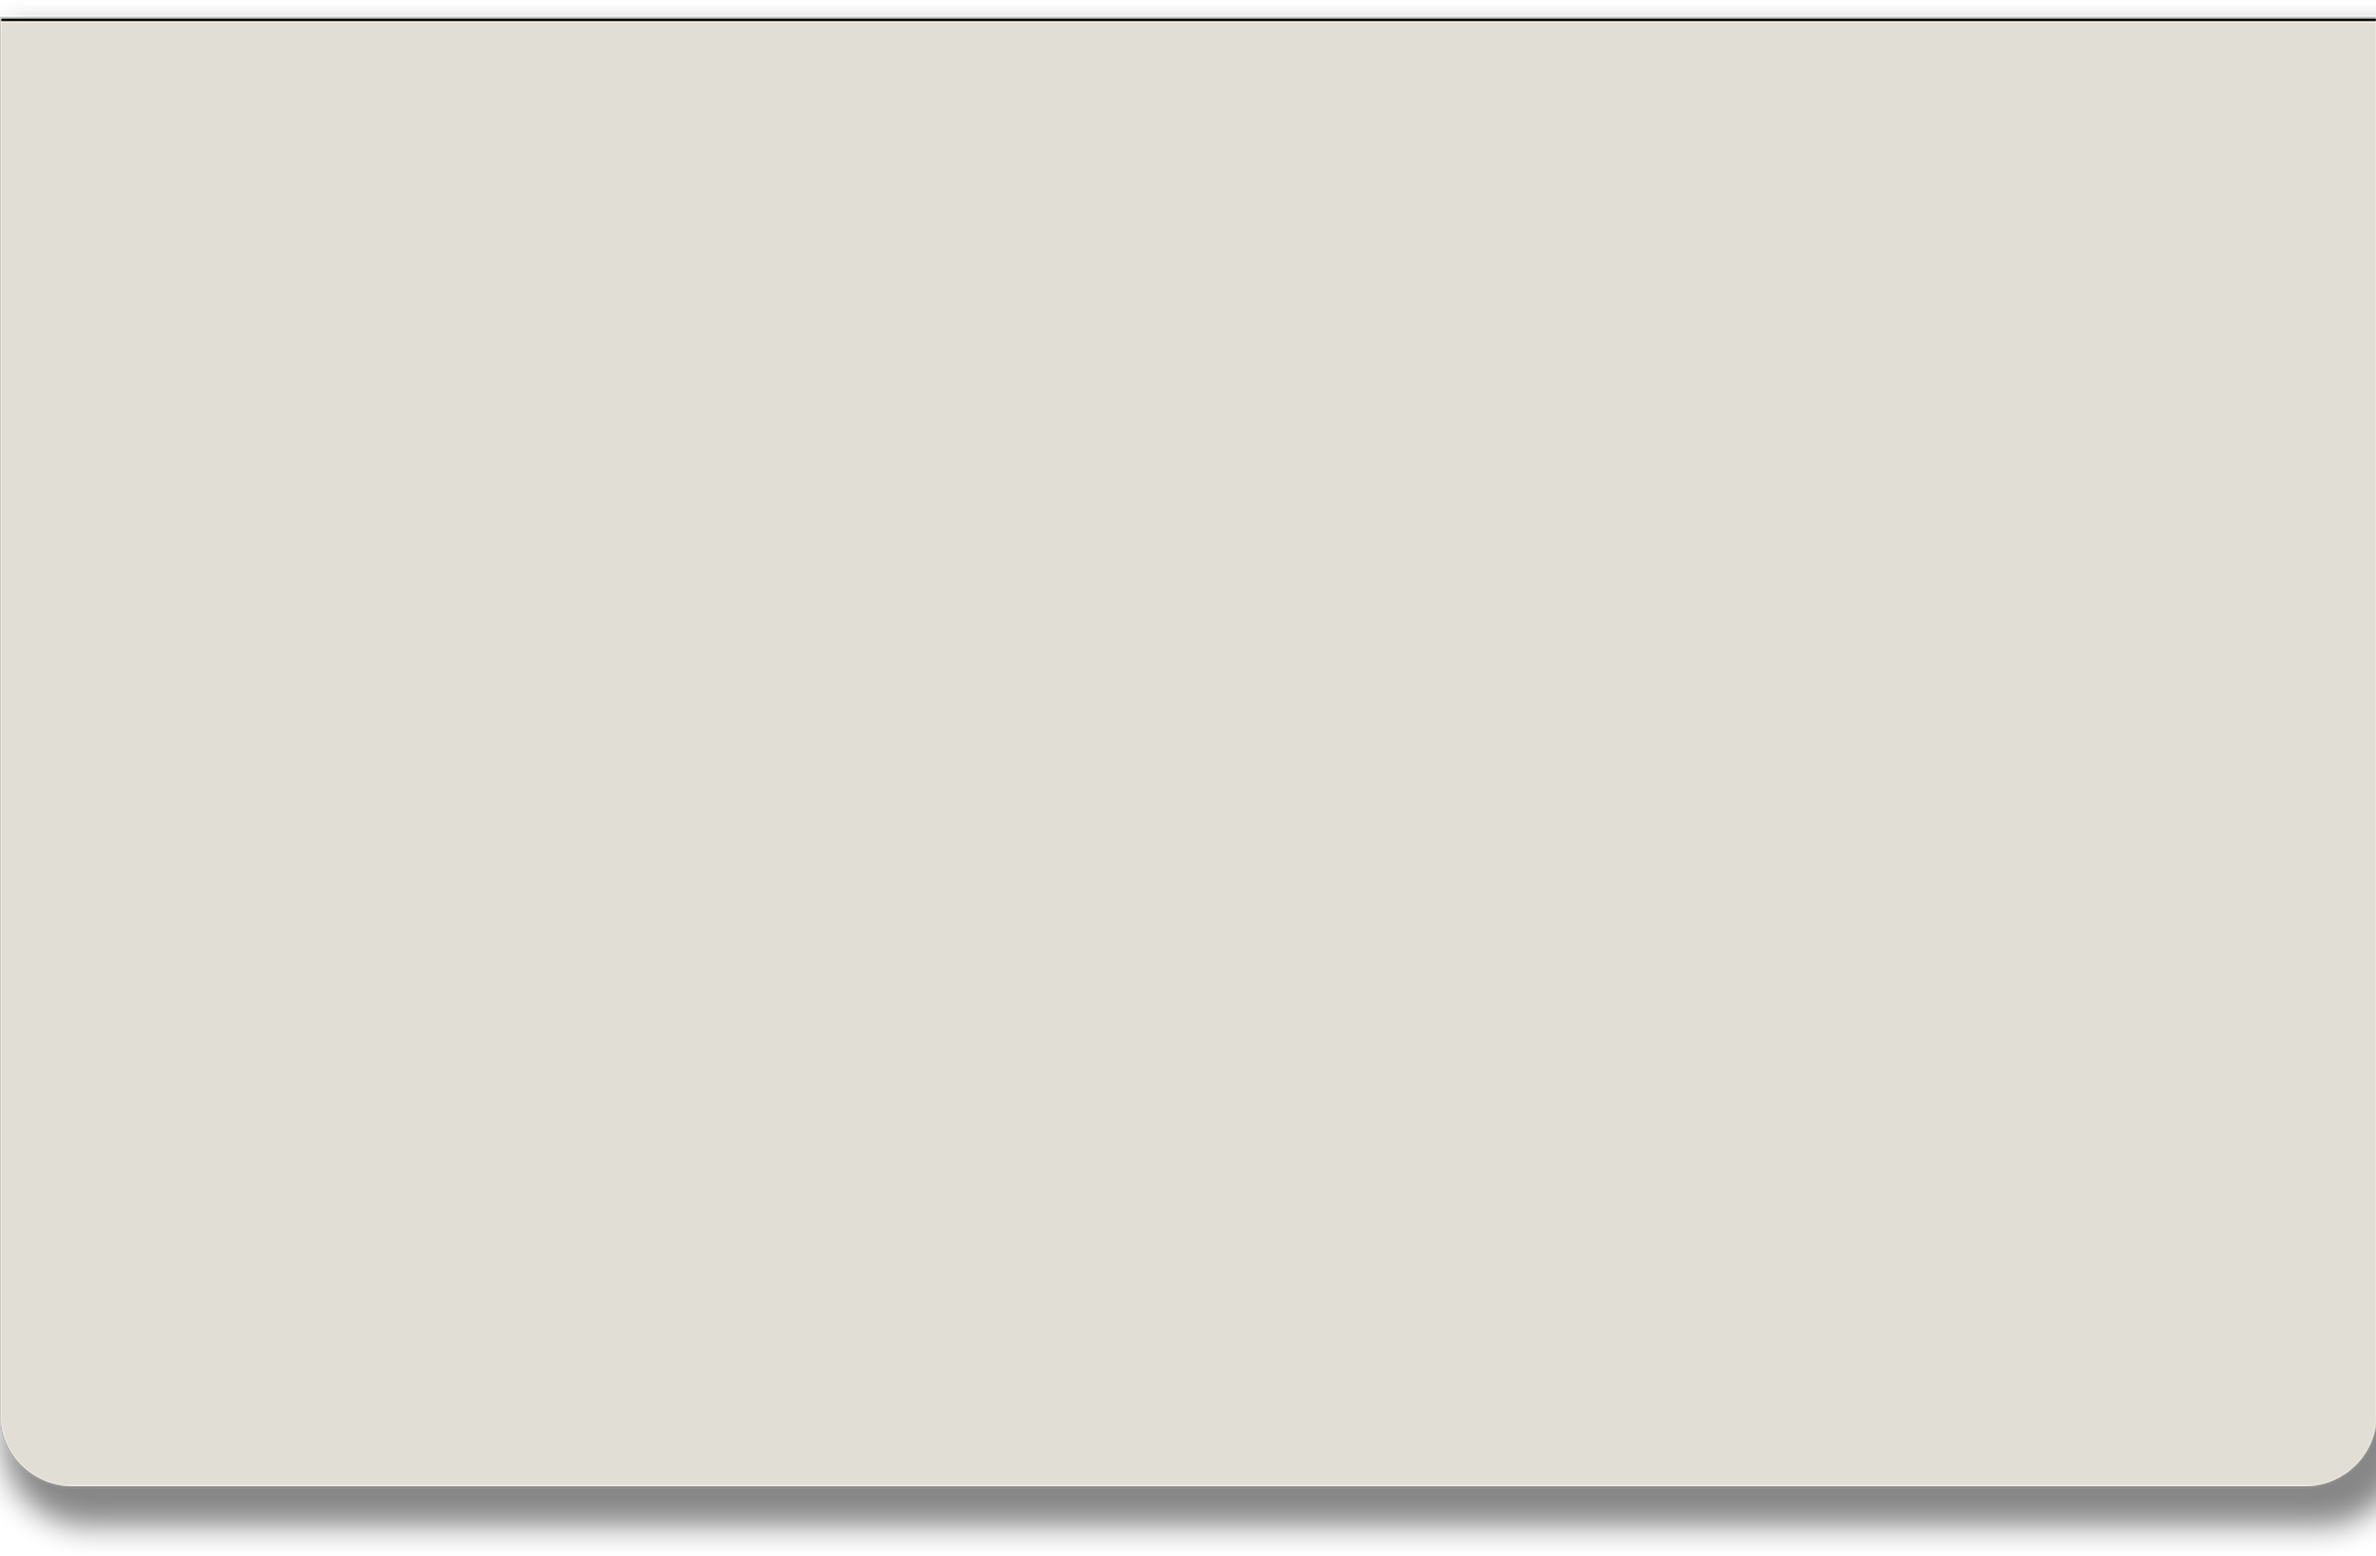
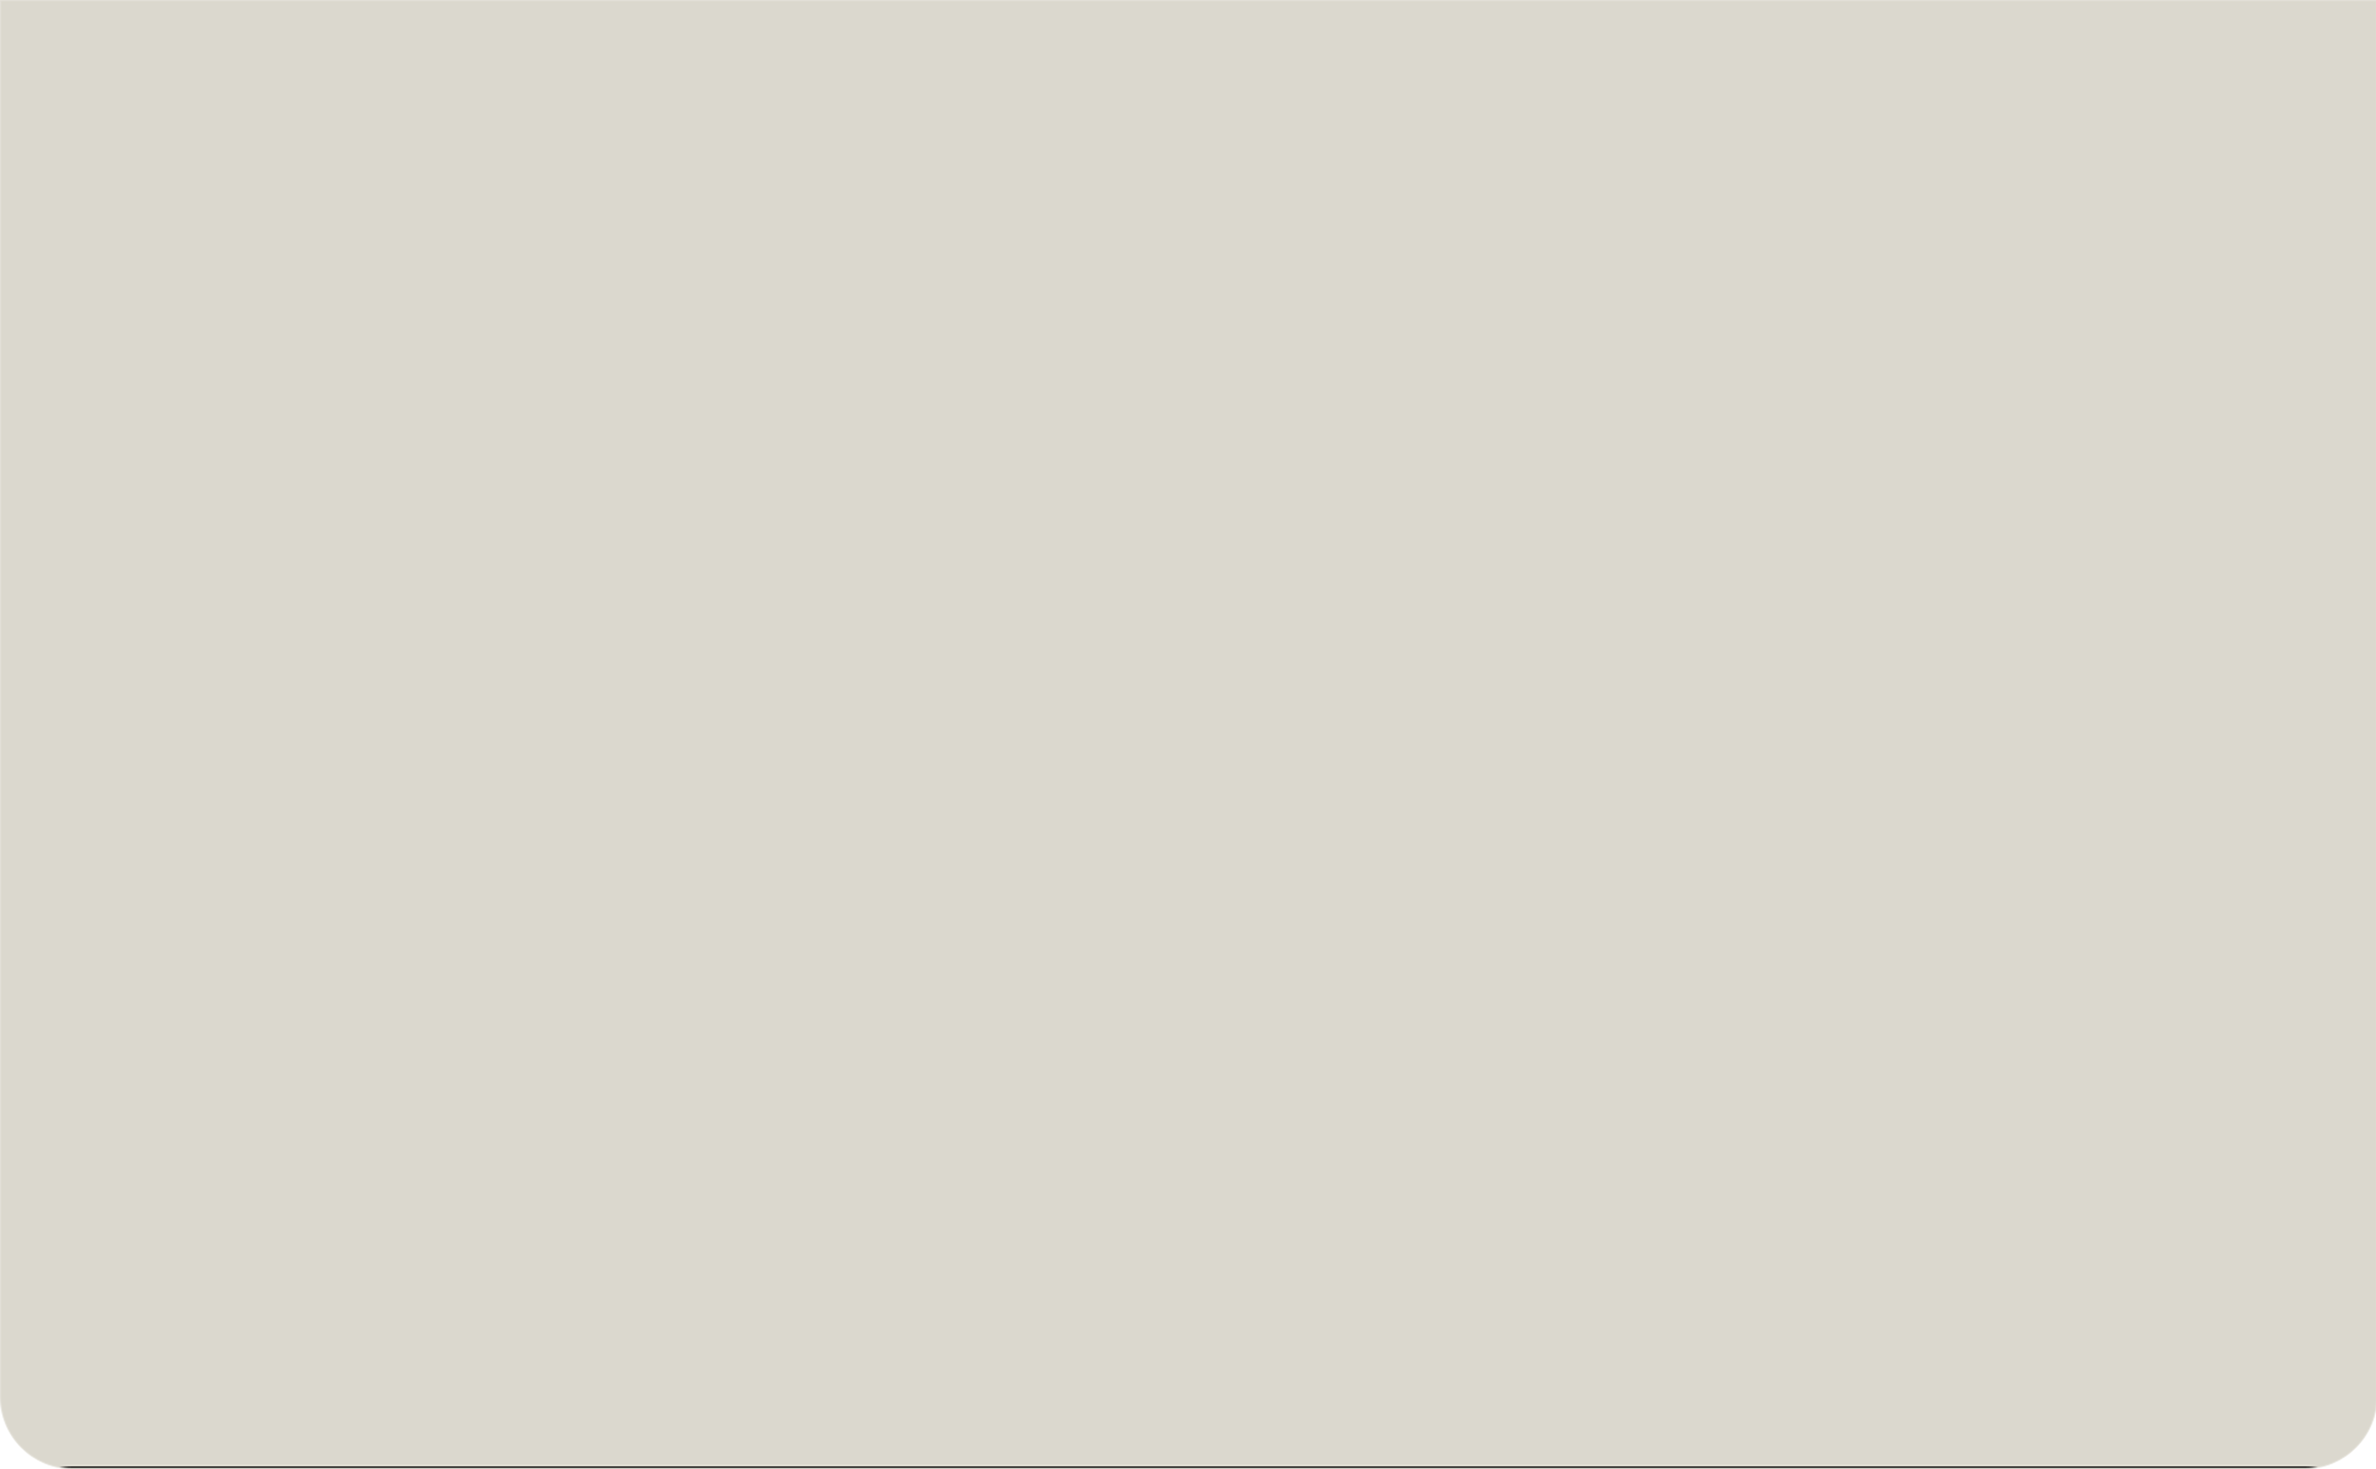
marco1

Changed region(s): [[0.0, 0.9351, 1.0, 1.0], [0.0, 0.0, 1.0, 0.0312]]

diff --git a/src/Vistas/galeria/galeria.jsx b/src/Vistas/galeria/galeria.jsx
@@ -67,11 +67,7 @@ const Slider = ({ setOpen, noticia, open }) => {
           height: "150vh",
           width: "100%",
           position: "relative",
-          boxShadow: `
-  
-      inset 0 -4px 6px rgba(0, 0, 0, 0.4),       
-      0 6px 10px rgba(0, 0, 0, 0.5)          
-    `,
+
           borderRadius: "10px",
         }}
       >
